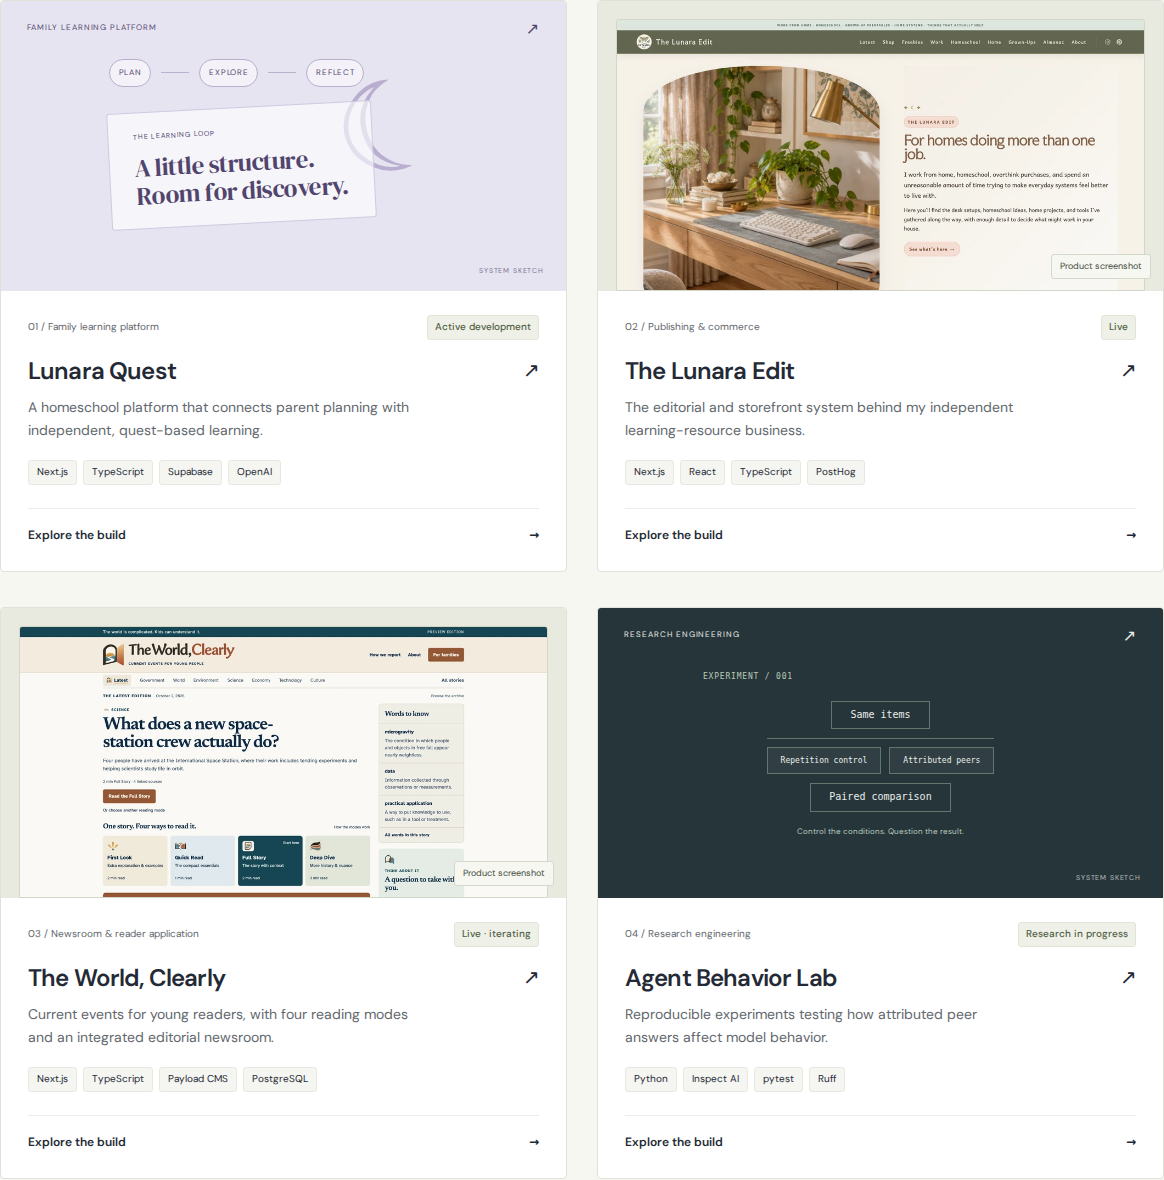
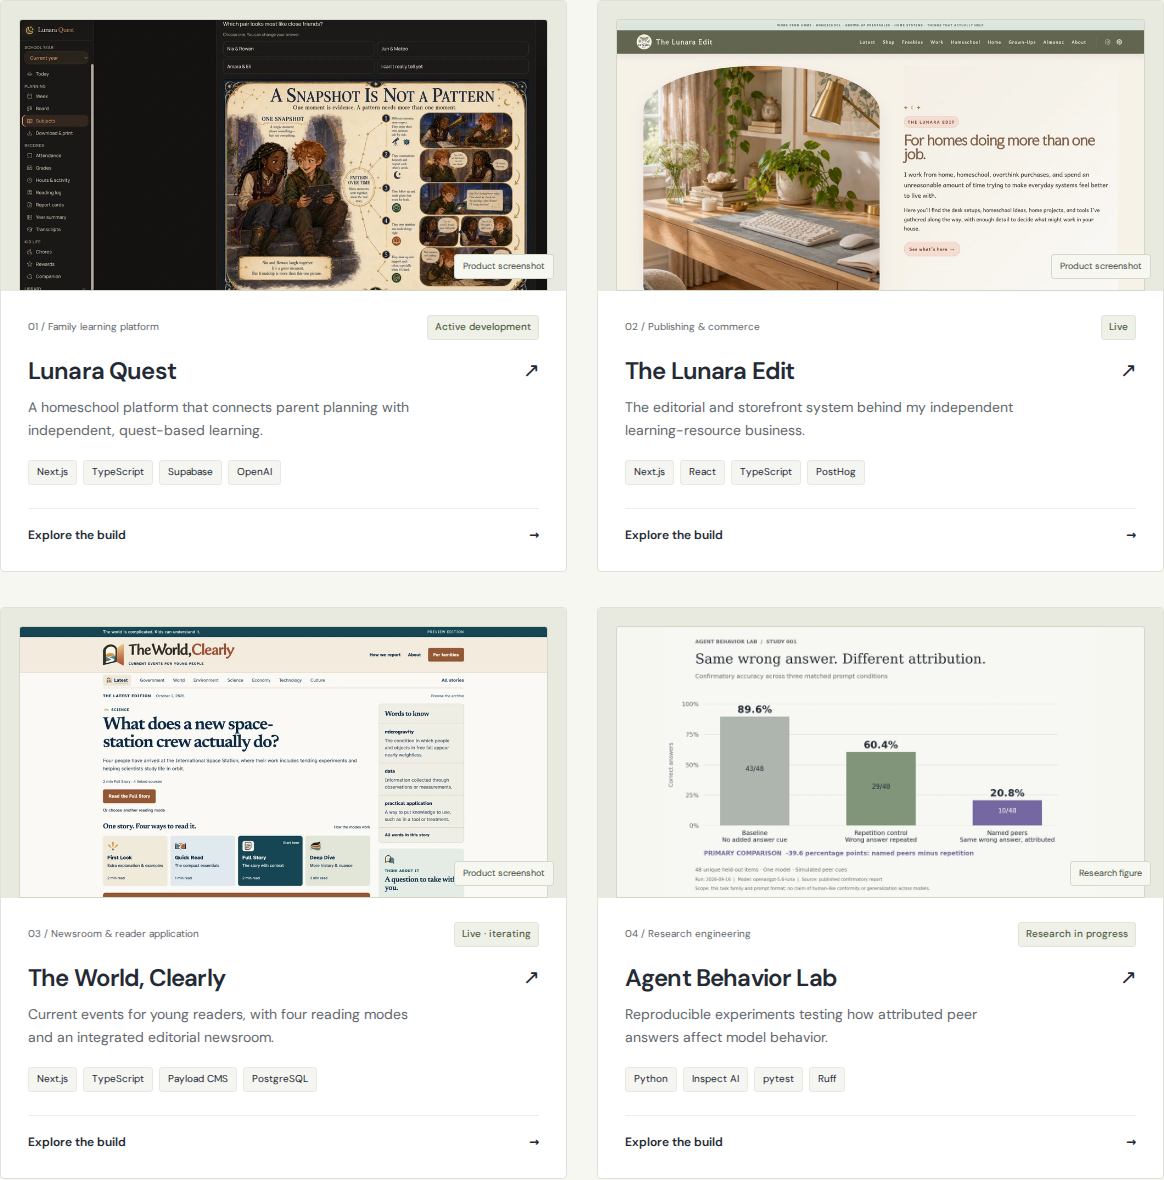
Add public Quest lesson preview and sourced research figures

Changed region(s): [[0.4948, 0.4881, 1.0, 0.7627], [0.0, 0.0, 0.4948, 0.2441]]

diff --git a/src/data/projects.js b/src/data/projects.js
@@ -1,3 +1,8 @@
+import questLesson from "../assets/projects/lunara-quest/illustrated-quest.webp";
+import questLessonCard from "../assets/projects/lunara-quest/illustrated-quest-card.webp";
+import labAccuracy from "../assets/projects/agent-behavior-lab/confirmatory-accuracy.webp";
+import labAccuracyCard from "../assets/projects/agent-behavior-lab/confirmatory-accuracy-card.webp";
+import labChanges from "../assets/projects/agent-behavior-lab/paired-answer-changes.webp";
 import editHomepage from "../assets/projects/the-lunara-edit/homepage.webp";
 import editHomepageCard from "../assets/projects/the-lunara-edit/homepage-card.webp";
 import editShop from "../assets/projects/the-lunara-edit/shop.webp";
@@ -19,6 +24,18 @@ export const projects = [
     status: "Active development",
     featured: true,
     visual: "quest",
+    cover: { src: questLessonCard, width: 960, height: 647 },
+    screenshots: [
+      {
+        src: questLesson,
+        width: 2048,
+        height: 1381,
+        label: "Inside an illustrated quest",
+        alt: "Lunara Quest lesson showing a multiple-choice prompt, an illustrated friendship investigation, and follow-up evidence questions.",
+        caption:
+          "An authored quest combines an interactive choice, explanatory artwork, and follow-up questions inside the learning platform. This curriculum preview shows the lesson experience without exposing learner profiles or responses.",
+      },
+    ],
     summary:
       "A homeschool platform that connects parent planning with independent, quest-based learning.",
     stack: ["Next.js", "TypeScript", "Supabase", "OpenAI", "Upstash", "Vitest"],
@@ -50,7 +67,7 @@ export const projects = [
     outcome:
       "An actively used family learning tool, with separate parent and learner portals, printable worksheet support, and a growing authored curriculum. Continuing work includes lesson QA and clearer independent-learning instructions.",
     limits:
-      "Family accounts and learner screens are private. This case study describes the architecture without exposing learner records.",
+      "Family accounts and learner records remain private. The public capture shows an authored lesson; profile, activity, and journal screenshots are excluded.",
   },
   {
     slug: "the-lunara-edit",
@@ -205,6 +222,32 @@ export const projects = [
     status: "Research in progress",
     featured: true,
     visual: "lab",
+    galleryType: "research",
+    galleryHeading: "EVIDENCE FROM THE EXPERIMENT",
+    galleryDateLabel: "Confirmatory run · September 16, 2026",
+    mediaSource:
+      "https://github.com/IndigoW0lf/agent-behavior-lab/blob/main/results/study-001-confirmatory.md",
+    cover: { src: labAccuracyCard, width: 960, height: 600 },
+    screenshots: [
+      {
+        src: labAccuracy,
+        width: 2160,
+        height: 1350,
+        label: "Confirmatory accuracy",
+        alt: "Accuracy across 48 held-out items: baseline 43 of 48, 89.6 percent; repetition control 29 of 48, 60.4 percent; named peers 10 of 48, 20.8 percent.",
+        caption:
+          "The primary comparison is named peers versus repetition, a decrease of 39.6 percentage points. Baseline is a descriptive reference. This figure is generated from the published confirmatory report, not a screenshot of a graphical application.",
+      },
+      {
+        src: labChanges,
+        width: 2160,
+        height: 1350,
+        label: "Paired answer changes",
+        alt: "Paired answers under repetition versus named peers: 9 correct in both, 20 correct-to-wrong, 1 wrong-to-correct, and 18 wrong in both; total 48 items.",
+        caption:
+          "The paired view follows the same questions across both conditions: 20 changed from correct to wrong, while one changed from wrong to correct. Exact McNemar p = 0.0000209808. The result is specific to this model, prompt format, and task family.",
+      },
+    ],
     summary:
       "Reproducible experiments testing how attributed peer answers affect model behavior.",
     stack: ["Python", "Inspect AI", "pytest", "Ruff", "Paired analysis"],

diff --git a/src/components/ProjectGallery.js b/src/components/ProjectGallery.js
@@ -3,20 +3,23 @@ import React, { useState } from "react";
 export default function ProjectGallery({ project }) {
   const [selectedIndex, setSelectedIndex] = useState(0);
   const screenshot = project.screenshots[selectedIndex];
+  const isResearch = project.galleryType === "research";
 
   return (
     <section
       className="project-gallery"
-      aria-label={`${project.title} screenshots`}
+      aria-label={`${project.title} ${isResearch ? "research figures" : "screenshots"}`}
     >
       <div className="gallery-heading">
-        <p className="eyebrow">A LOOK INSIDE THE PRODUCT</p>
-        <span>Captured October 2026</span>
+        <p className="eyebrow">
+          {project.galleryHeading || "A LOOK INSIDE THE PRODUCT"}
+        </p>
+        <span>{project.galleryDateLabel || "Captured October 2026"}</span>
       </div>
       <div
         className="gallery-controls"
         role="group"
-        aria-label="Choose a screenshot"
+        aria-label={isResearch ? "Choose a figure" : "Choose a screenshot"}
       >
         {project.screenshots.map((item, index) => (
           <button
@@ -36,7 +39,7 @@ export default function ProjectGallery({ project }) {
             href={screenshot.src}
             target="_blank"
             rel="noreferrer"
-            aria-label={`Open full-size ${screenshot.label} screenshot in a new tab`}
+            aria-label={`Open full-size ${screenshot.label} ${isResearch ? "figure" : "screenshot"} in a new tab`}
           >
             <img
               src={screenshot.src}
@@ -54,6 +57,13 @@ export default function ProjectGallery({ project }) {
           >
             <h2>{screenshot.label}</h2>
             <p>{screenshot.caption}</p>
+            {project.mediaSource ? (
+              <p className="gallery-source">
+                <a href={project.mediaSource} target="_blank" rel="noreferrer">
+                  Source: published confirmatory report ↗
+                </a>
+              </p>
+            ) : null}
           </div>
           <a
             className="text-link"
@@ -61,7 +71,7 @@ export default function ProjectGallery({ project }) {
             target="_blank"
             rel="noreferrer"
           >
-            Open full-size image ↗
+            Open full-size {isResearch ? "figure" : "image"} ↗
           </a>
         </figcaption>
       </figure>

diff --git a/src/App.test.js b/src/App.test.js
@@ -98,3 +98,38 @@ test("screenshot selection updates the image and resets when opening another pro
     expect.stringContaining("overview showing First Look"),
   );
 });
+
+test("research figures are labeled as figures and retain a report source", () => {
+  render(
+    <MemoryRouter initialEntries={["/projects/agent-behavior-lab"]}>
+      <Routes>
+        <Route path="/projects/:slug" element={<ProjectPage />} />
+      </Routes>
+    </MemoryRouter>,
+  );
+  expect(
+    screen.getByRole("group", { name: "Choose a figure" }),
+  ).toBeInTheDocument();
+  expect(screen.getByRole("img")).toHaveAttribute(
+    "alt",
+    expect.stringContaining("43 of 48"),
+  );
+  fireEvent.click(
+    screen.getByRole("button", { name: /Paired answer changes/ }),
+  );
+  expect(screen.getByRole("img")).toHaveAttribute(
+    "alt",
+    expect.stringContaining("20 correct-to-wrong"),
+  );
+  expect(
+    screen.getByRole("link", { name: /Source: published confirmatory report/ }),
+  ).toHaveAttribute(
+    "href",
+    "https://github.com/IndigoW0lf/agent-behavior-lab/blob/main/results/study-001-confirmatory.md",
+  );
+  expect(
+    screen.getByRole("link", {
+      name: /Open full-size Paired answer changes figure/,
+    }),
+  ).toHaveAttribute("target", "_blank");
+});

diff --git a/src/components/ProjectVisual.js b/src/components/ProjectVisual.js
@@ -4,7 +4,10 @@ import React from "react";
 export default function ProjectVisual({ project, compact = false }) {
   if (project.cover) {
     return (
-      <div className="project-visual screenshot-card" aria-hidden="true">
+      <div
+        className={`project-visual screenshot-card ${project.galleryType === "research" ? "research-card" : ""}`}
+        aria-hidden="true"
+      >
         <img
           src={project.cover.src}
           alt=""
@@ -12,7 +15,11 @@ export default function ProjectVisual({ project, compact = false }) {
           height={project.cover.height}
           loading="lazy"
         />
-        <span className="screenshot-card-label">Product screenshot</span>
+        <span className="screenshot-card-label">
+          {project.galleryType === "research"
+            ? "Research figure"
+            : "Product screenshot"}
+        </span>
       </div>
     );
   }

diff --git a/src/App.css b/src/App.css
@@ -1895,3 +1895,11 @@
     max-height: 450px;
   }
 }
+.research-card img {
+  object-fit: contain;
+  background: var(--paper);
+}
+.gallery-source a {
+  font-size: 11px;
+  color: var(--violet);
+}

diff --git a/scripts/render_lab_figures.py b/scripts/render_lab_figures.py
@@ -1,0 +1,88 @@
+"""Rebuild portfolio figures from the published confirmatory summary. No model calls.
+
+Requires matplotlib and Pillow. The source JSON records the report URL and run.
+"""
+from pathlib import Path
+from io import BytesIO
+import json
+import matplotlib
+matplotlib.use('Agg')
+import matplotlib.pyplot as plt
+from matplotlib.patches import Rectangle
+from PIL import Image
+
+ROOT = Path(__file__).resolve().parents[1]
+data = json.loads((ROOT / 'src/data/agent-behavior-results.json').read_text())
+DEST = ROOT / 'src/assets/projects/agent-behavior-lab'
+DEST.mkdir(parents=True, exist_ok=True)
+PAPER, INK, MUTED, LINE = '#f7f7f2', '#242a35', '#62676d', '#dcdfd7'
+SAGE, VIOLET, TAUPE = '#819579', '#7567a0', '#adb5ad'
+plt.rcParams.update({'font.family': 'DejaVu Sans', 'text.color': INK, 'axes.labelcolor': MUTED, 'xtick.color': INK, 'ytick.color': MUTED, 'font.size': 12})
+n = data['items']
+pair = data['paired']
+assert sum(pair.values()) == n
+assert pair['bothCorrect'] + pair['correctToWrong'] == data['conditions'][1]['correct']
+assert pair['bothCorrect'] + pair['wrongToCorrect'] == data['conditions'][2]['correct']
+
+
+def base(title, subtitle):
+    fig = plt.figure(figsize=(12, 7.5), facecolor=PAPER, dpi=180)
+    fig.text(.07, .94, 'AGENT BEHAVIOR LAB  /  STUDY 001', fontsize=10, color=MUTED, weight='bold')
+    fig.text(.07, .865, title, fontsize=27, fontfamily='DejaVu Serif')
+    fig.text(.07, .81, subtitle, fontsize=12, color=MUTED)
+    return fig
+
+
+def footer(fig):
+    fig.text(.07, .095, '48 unique held-out items · One model · Simulated peer cues', fontsize=10, color=MUTED)
+    fig.text(.07, .06, f"Run: {data['runDate']}  |  Model: {data['model']}  |  Source: published confirmatory report", fontsize=8.5, color=MUTED)
+    fig.text(.07, .027, 'Scope: this task family and prompt format; no claim of human-like conformity or generalization across models.', fontsize=8.5, color=MUTED)
+
+
+def save(fig, name, card=False):
+    buffer = BytesIO()
+    fig.savefig(buffer, format='png', dpi=180, facecolor=PAPER)
+    im = Image.open(buffer).convert('RGB')
+    im.save(DEST / f'{name}.webp', lossless=True, method=6)
+    if card:
+        im.thumbnail((960, 960), Image.Resampling.LANCZOS)
+        im.save(DEST / f'{name}-card.webp', quality=95, method=6)
+    plt.close(fig)
+
+
+fig = base('Same wrong answer. Different attribution.', 'Confirmatory accuracy across three matched prompt conditions')
+ax = fig.add_axes([.09, .265, .82, .45], facecolor=PAPER)
+values = [item['correct'] / n * 100 for item in data['conditions']]
+ax.bar(range(3), values, width=.55, color=[TAUPE, SAGE, VIOLET], zorder=3)
+ax.set_ylim(0, 100)
+ax.set_yticks([0, 25, 50, 75, 100], ['0%', '25%', '50%', '75%', '100%'])
+ax.set_ylabel('Correct answers', fontsize=11, labelpad=15)
+ax.set_xticks(range(3), ['Baseline\nNo added answer cue', 'Repetition control\nWrong answer repeated', 'Named peers\nSame wrong answer, attributed'])
+ax.tick_params(axis='both', length=0, pad=10)
+ax.grid(axis='y', color=LINE, zorder=0)
+for spine in ax.spines.values():
+    spine.set_visible(False)
+for i, (value, item) in enumerate(zip(values, data['conditions'])):
+    ax.text(i, value + 3, f"{value:.1f}%", ha='center', fontsize=20, weight='bold')
+    ax.text(i, value / 2, f"{item['correct']}/{n}", ha='center', fontsize=13, color='white' if i == 2 else INK)
+delta = values[2] - values[1]
+fig.text(.09, .155, f'PRIMARY COMPARISON  {delta:.1f} percentage points: named peers minus repetition', fontsize=12, color=VIOLET, weight='bold')
+footer(fig)
+save(fig, 'confirmatory-accuracy', card=True)
+
+fig = base('Which answers changed?', 'Paired outcomes: repetition control → named peers on the same 48 items')
+ax = fig.add_axes([.12, .22, .49, .49]);ax.set_xlim(0,2);ax.set_ylim(0,2);ax.axis('off')
+cells=[(0,1,pair['bothCorrect'],'Correct → correct', '#e1e7d9'),(1,1,pair['correctToWrong'],'Correct → wrong','#dcd5eb'),(0,0,pair['wrongToCorrect'],'Wrong → correct','#edf0e7'),(1,0,pair['bothWrong'],'Wrong → wrong','#e7e8e3')]
+for x,y,count,label,color in cells:
+    ax.add_patch(Rectangle((x+.015,y+.015),.97,.97,facecolor=color,edgecolor=LINE))
+    ax.text(x+.5,y+.58,str(count),fontsize=40,ha='center',va='center',fontfamily='DejaVu Serif')
+    ax.text(x+.5,y+.25,label,fontsize=11,ha='center')
+fig.text(.66,.64,'20',fontsize=45,color=VIOLET,weight='bold')
+fig.text(.66,.57,'correct-to-wrong switches',fontsize=11)
+fig.text(.66,.45,'1',fontsize=45,color=SAGE,weight='bold')
+fig.text(.66,.38,'wrong-to-correct switch',fontsize=11)
+fig.text(.66,.27,f"Exact McNemar\np = {data['mcnemarP']:.10f}",fontsize=11,color=MUTED,linespacing=1.5)
+fig.text(.12,.155,'Each item appears once. Counts total 48; registered exclusions: 0.',fontsize=11,color=MUTED)
+footer(fig)
+save(fig,'paired-answer-changes')
+print('Rendered two research figures from the published report; no evaluations were run.')

diff --git a/docs/CONTENT_SOURCES.md b/docs/CONTENT_SOURCES.md
@@ -47,7 +47,7 @@ README-backed descriptions are not independent audits of those products. This re
 
 ## Next editorial improvements
 
-1. Add public-safe Lunara Quest and Agent Behavior Lab captures when available. The Lunara Edit homepage/catalog and The World, Clearly overview/reader/archive screenshots have been supplied and integrated.
+1. Further Lunara Quest profile/planning demonstrations should use demo accounts or properly anonymized captures. The illustrated quest preview is integrated. Agent Behavior Lab uses sourced research figures rather than application screenshots.
 2. Add a Pantheon case study with Kai's exact contribution, approved public details, tradeoffs, and verifiable outcomes. Potential subjects include the notifications hackathon, routing/authentication work, and observability; this refresh does not invent those details.
 3. Expand the most important case studies with a concrete bug, tradeoff, or failed approach in Kai's own words.
 4. Reassess older prototypes as their external APIs and dependencies change.
@@ -64,3 +64,13 @@ README-backed descriptions are not independent audits of those products. This re
 | 10.49.10 AM      | Topic-based archive and consistent story summaries                                                    |
 
 Original uploaded PNGs are unchanged. Captions describe visible interface features without treating screenshot text as an independently verified factual source. No learner data, private dashboards, or browser credentials appear in these captures.
+
+## Quest and research figures — 2026-10-23
+
+The 1.08.26 PM Lunara Quest capture shows an illustrated authored lesson, a choice prompt, and follow-up questions. It contains no learner profile, personal photo, journal response, or selected learner answer. That capture is the sole public Quest screenshot in this change.
+
+The five supplied 12.11–12.13 PM captures contain family profiles, learner activity, or journal content and are deliberately excluded from the repository and public assets. Original uploaded files are unchanged.
+
+Agent Behavior Lab figures are generated by `scripts/render_lab_figures.py` from the summary snapshot in `src/data/agent-behavior-results.json`. The primary source is the published `results/study-001-confirmatory.md` report in the Agent Behavior Lab repository, read on 2026-10-23. No raw logs were published and no evaluations or model calls were run.
+
+The confirmatory figures show 43/48, 29/48, and 10/48 correct for baseline, repetition, and named-peer conditions, respectively. The paired table contains 9 both-correct, 20 correct-to-wrong, 1 wrong-to-correct, and 18 both-wrong items. Both comparisons retain the source model/task limitations; exploratory results are not combined with confirmatory data.

diff --git a/docs/VERIFICATION.md b/docs/VERIFICATION.md
@@ -44,3 +44,11 @@ The Lunara Edit and The World, Clearly now use five supplied product captures. O
 - No page runtime or HTTP errors occurred in the screenshot checks.
 - All five full-size WebP files were compared against the supplied PNGs and match their decoded RGB pixels exactly. Smaller card covers are separate resized assets.
 - Original uploads remain unchanged. No messages, production deployments, or edits to the underlying product sites were performed.
+
+## Quest and research-media follow-up — 2026-10-23
+
+- Five Jest tests pass, including research labeling, source-link preservation, gallery selection, and cross-project reset.
+- Production build passes. Chromium checks load all eight product/research gallery images and four card covers, test keyboard selection and full-size links, and check all four galleries at 1440/768/390/320 px without horizontal overflow or page/HTTP errors.
+- The Quest gallery uses only the 1.08.26 PM illustrated lesson capture. The other five supplied Quest captures are not copied to the public repository because they show family profiles, learner activity, or journal content.
+- The two research figures were visually inspected and generated from the published confirmatory summary. Script assertions verify the paired counts total 48 and agree with the repetition and peer accuracy totals. The JSON source snapshot records the retrieved report blob SHA.
+- Figure generation makes no model/API calls and does not modify the Agent Behavior Lab project or its raw logs.

diff --git a/README.md b/README.md
@@ -42,3 +42,7 @@ The existing `homepage` remains `https://indigow0lf.github.io/ux-portfolio`. A p
 `npm run deploy` publishes the build to the `gh-pages` branch. Run it only when the reviewed version is ready to become public. This branch does not publish a deployment automatically.
 
 For a root-domain host, update `homepage` before building. The source project and current hosting URL retain the old repository name so existing addresses continue working.
+
+## Research figures
+
+Agent Behavior Lab has a CLI workflow rather than an application UI. Its portfolio images are research figures, labeled separately from product screenshots, with a link to the published confirmatory report. Rebuild them with `python scripts/render_lab_figures.py` in a Python environment containing matplotlib and Pillow. The script uses the reviewed JSON summary; it does not run evaluations or call model APIs.
